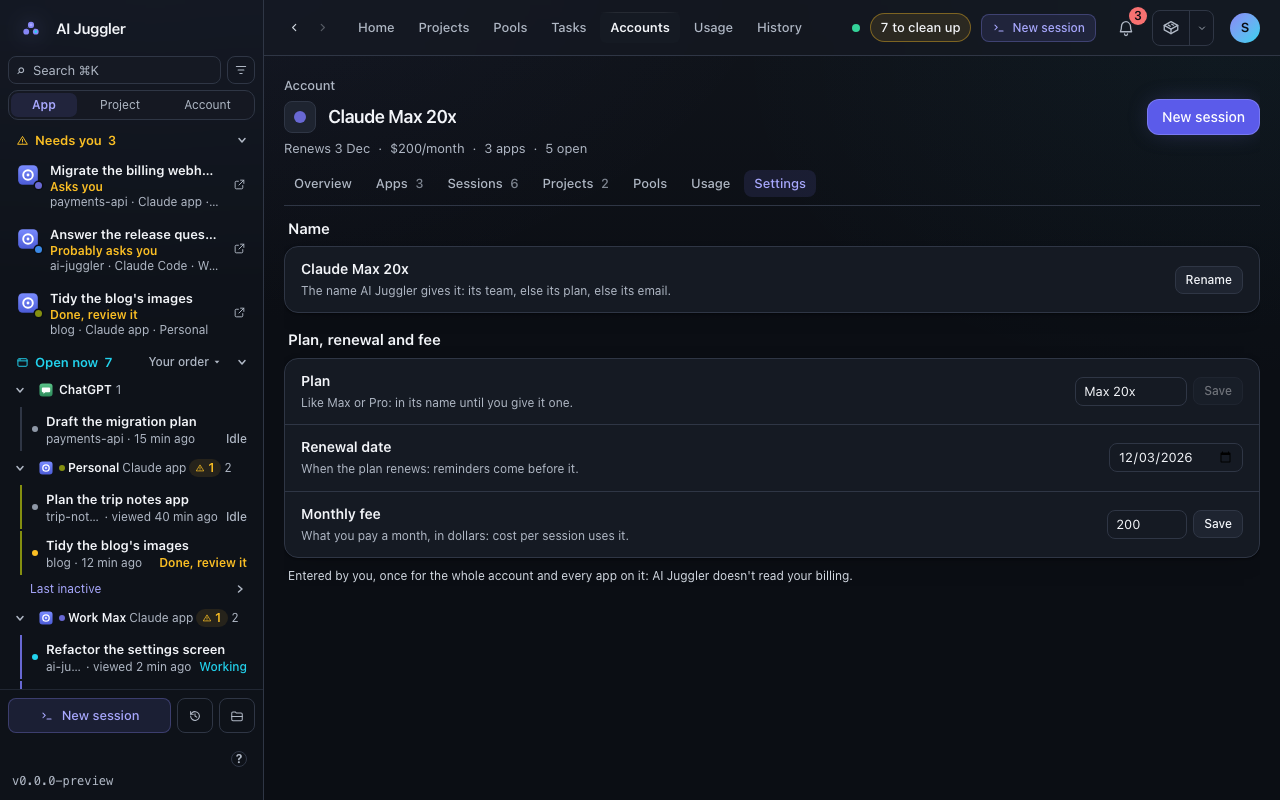
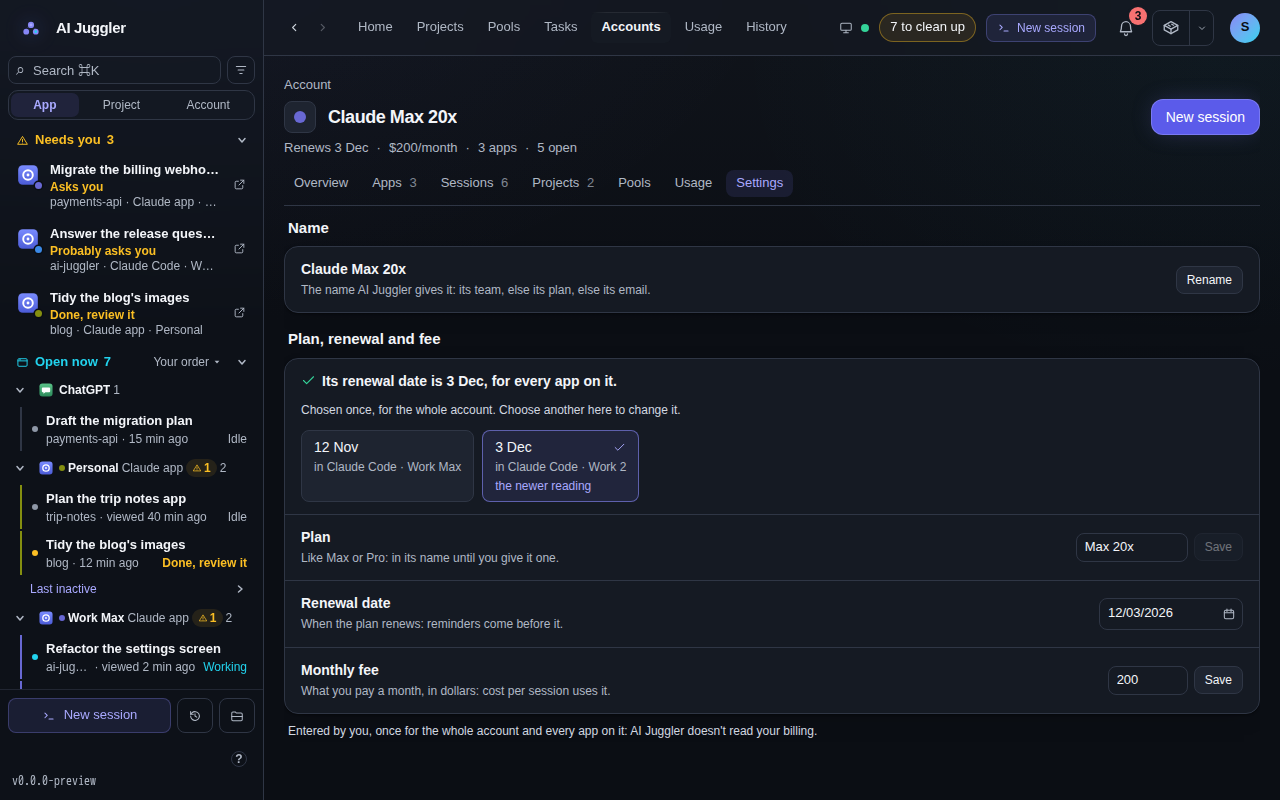
gallery(99-account-page): an answered question stays in place (rc31 A9), from HEAD in the pinned container
account-chosen (both themes) changed: the renewal question stays, answered
with a check, 3 Dec picked, 12 Nov still there to change it.
account-choices-answered (new, both themes): plan answered in place, the
renewal and fee questions below still asking at the same y. Opened and
looked at; critique updated and stamped after staging.

diff --git a/docs/qa/evidence/_gallery/99-account-page/critique.md b/docs/qa/evidence/_gallery/99-account-page/critique.md
@@ -1,4 +1,4 @@
-<!-- captures: 91098976e67d -->
+<!-- captures: 2b491c50e378 -->
 # 99-account-page: an Account's own page, and the Accounts screen that leads to it (0.4, D-62, AJ-E3205)
 
 Design critique (D-57, AJ-E2814). First critique of this family, written at 0.4 from its captures; a second section for AJ-E3202 req. 4 (plan, renewal and fee kept on the Account).
@@ -109,3 +109,16 @@ Recaptured: account-overview and account-overview-1024, in both themes. The rest
 The whole family was retaken on release/0.4.1 for the 14-line re-score (AJ-E3305, `docs/qa/0.4-walks/design.md`) and opened on contact sheets, both themes, 1280 and 1024. Shared with every screen since the last shoot: the header's New session is tinted (one filled button per view), the Floor button is a split control with its own menu, This Mac's line is its dot below 1120 px, and the rail's App headers put the profile first.
 
 The Account page's line names it without its e-mail ("2 apps · 5 open"; 059ff2db9), the window says its name, and with nothing measured its Limits end in "Measure its limits ›" where measuring can be switched on (d8dd6b4a1). The Accounts cards' link reads "Measure its limits ›" and opens the Account. Renewal: the newer date chosen, ⌘↩ (account-choice).
+
+## 0.4.1, rc31 A9: answering one question never moves the next
+
+The bug: with all three questions open (plan, renewal, fee), answering the first removed it and the other two moved up about 137 px under the cursor. In the A9 walk a quick second click meant for $200/month landed on $100/month. Now an answered question stays where it was until the page closes, as tall as it was, and says what was chosen. Its options stay, so it can be changed in the same place. Two captures per theme changed or are new, rendered from HEAD in the pinned Playwright container. The other sixteen are unchanged and still the earlier renders.
+
+**account-chosen (changed).** After a click on 3 Dec, the row no longer disappears. Its warning icon and amber tint become a green check on the plain card: "Its renewal date is 3 Dec, for every app on it." Under it: "Chosen once, for the whole account. Choose another here to change it." The two options keep their places. 3 Dec is marked as picked, with the accent border and fill and a small check where ⌘↩ sat; the hint is gone. "the newer reading" stays under it. 12 Nov is neutral and can still be clicked to change the answer. The rest is as before: the header chip is gone, the facts read "Renews 3 Dec · $200/month", the date field holds 12/03/2026 and its description is back to "When the plan renews: reminders come before it."
+
+**account-choices-answered (new).** The A9 fixture: Work Max and Work 2 disagree on all three (Max 20x or Pro, 12 Nov or 3 Dec, $200 or $100 a month). The header chip reads "Choose its renewal date and monthly fee". Max 20x has just been chosen. The plan row is answered in place ("Its plan is Max 20x, for every app on it.", Max 20x picked with a check, Pro neutral). The renewal and fee questions below are still asking, on the amber tint, at the same y as before the click (the spec checks each option's box before and after, then clicks $200/month at its old spot and gets $200/month).
+
+### Weak
+
+- The answered row stays only while the page is open. Coming back later shows just the rows still asking, which is right, but there's no record of what was chosen beyond the values in the rows below.
+- These two captures come from the pinned container and the family's other sixteen from this Mac, so the type renders slightly differently between them. Re-take the whole family in the container next time it's shot.
